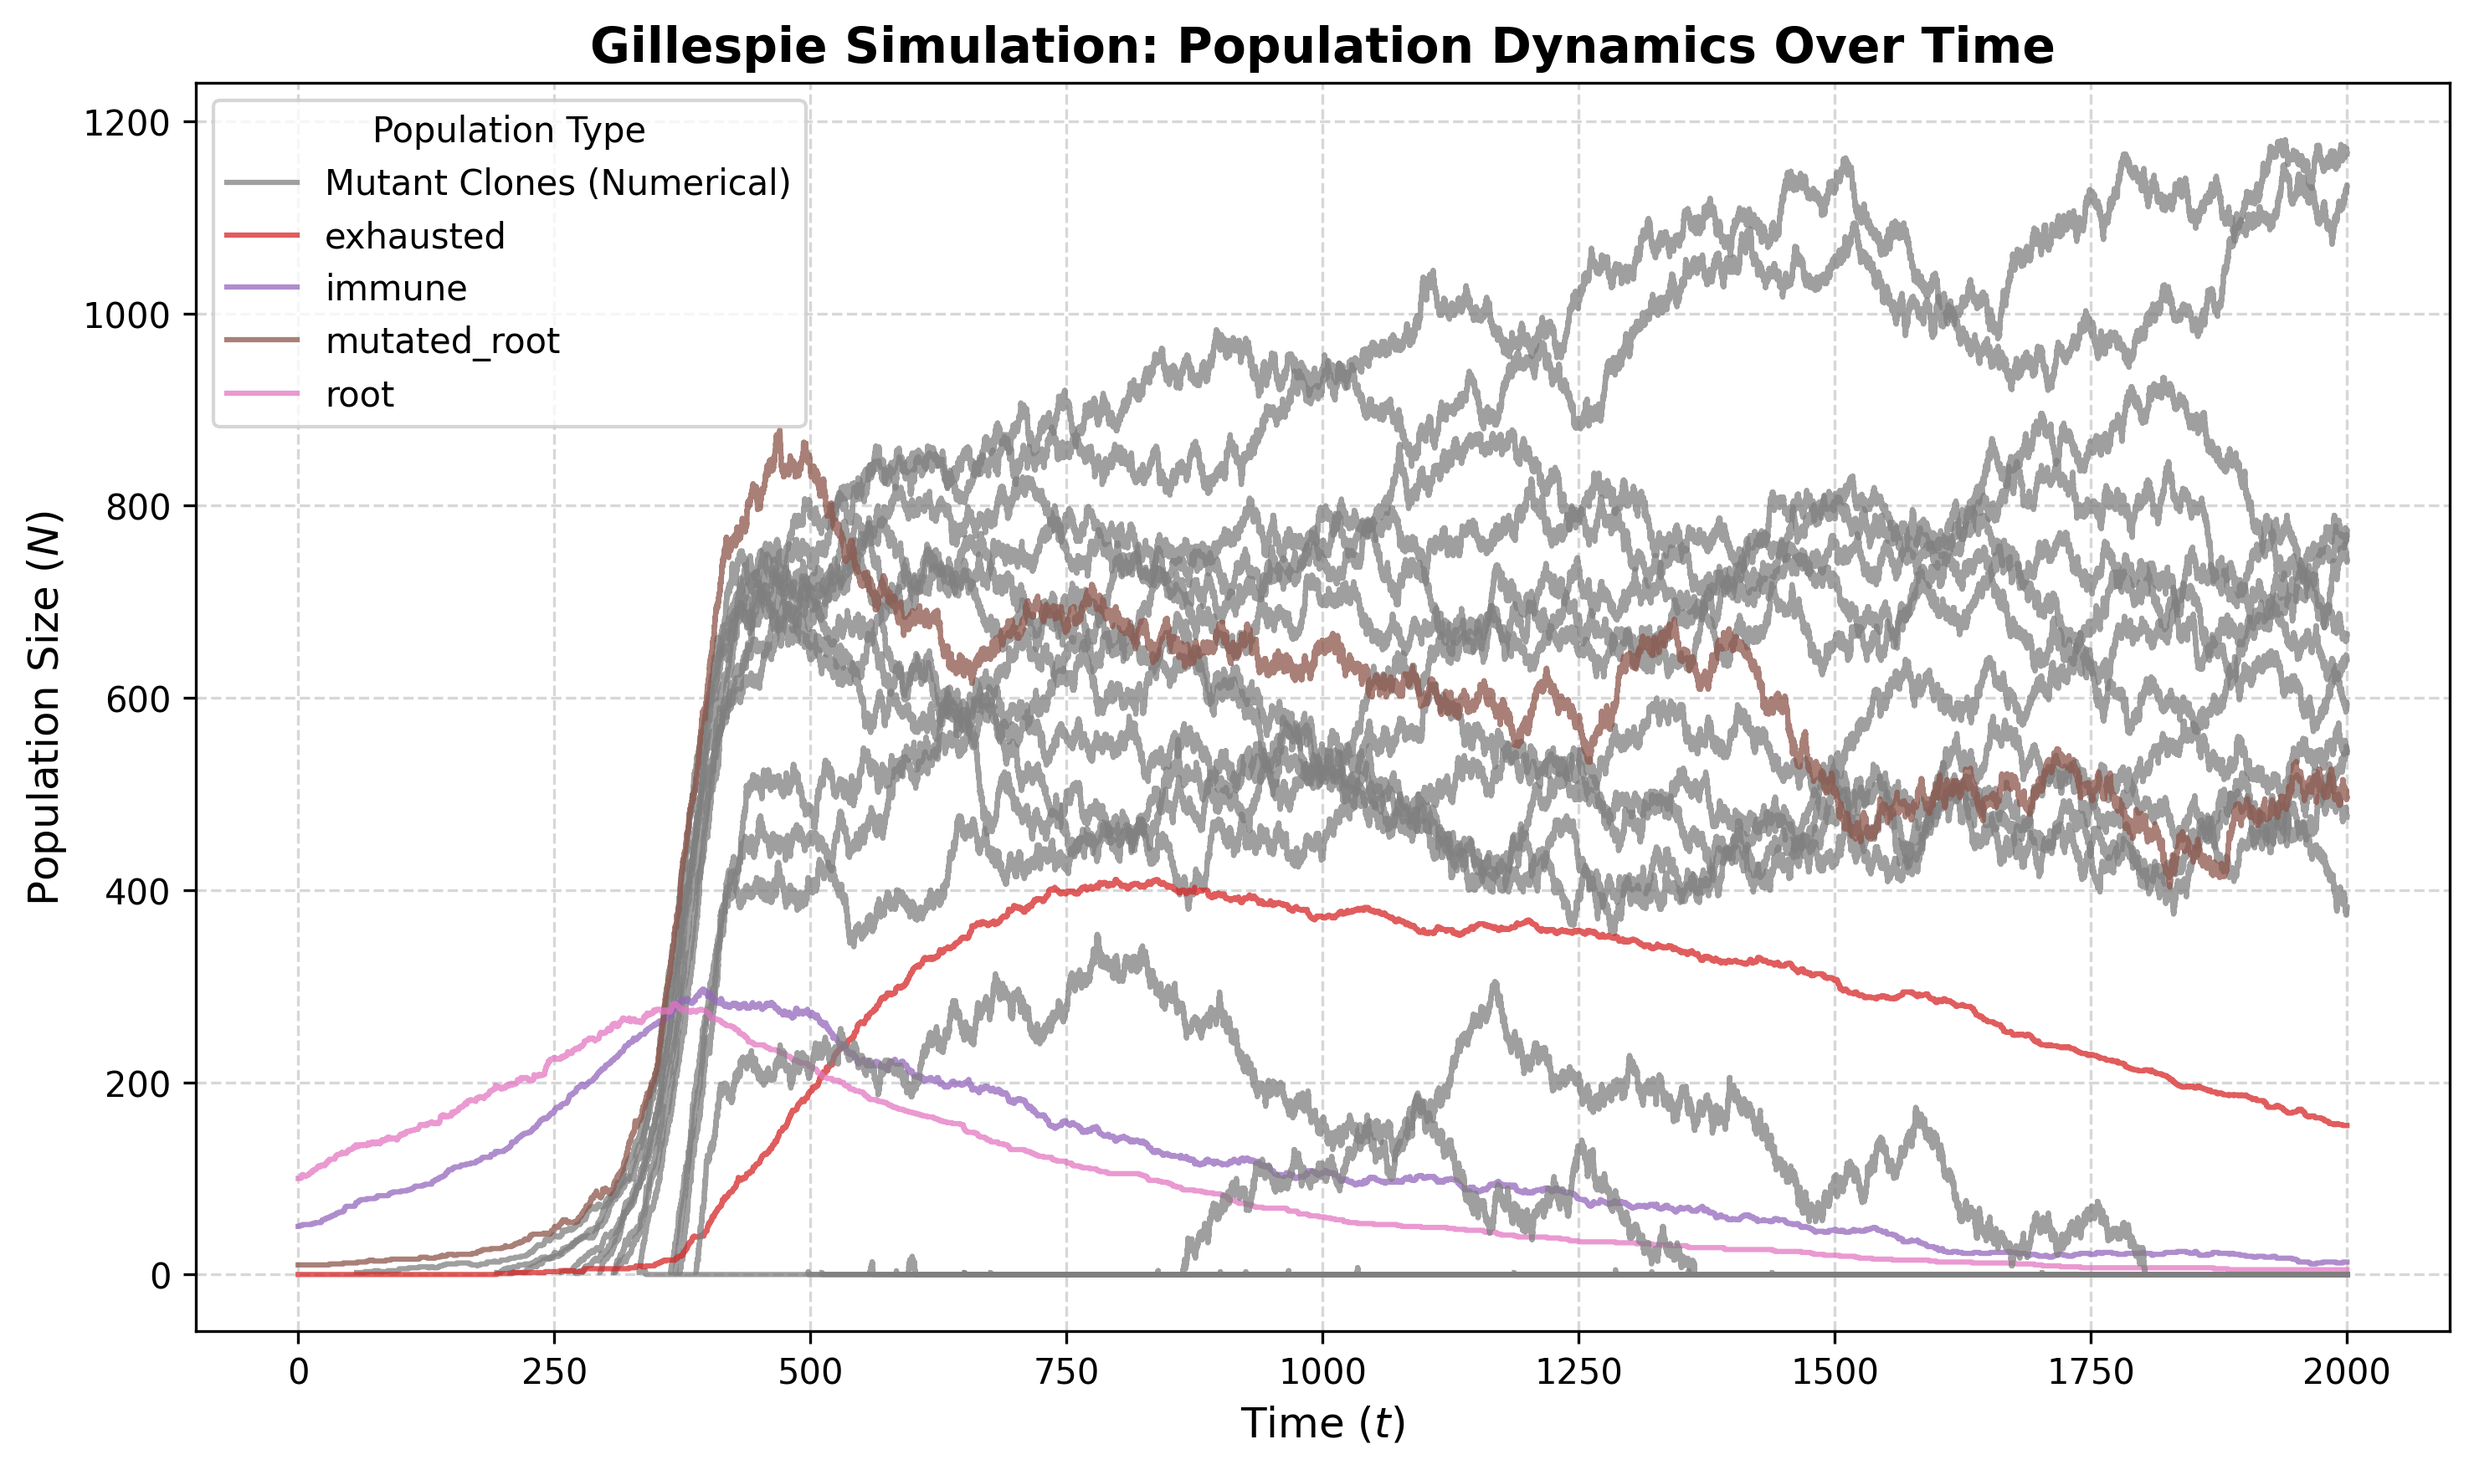
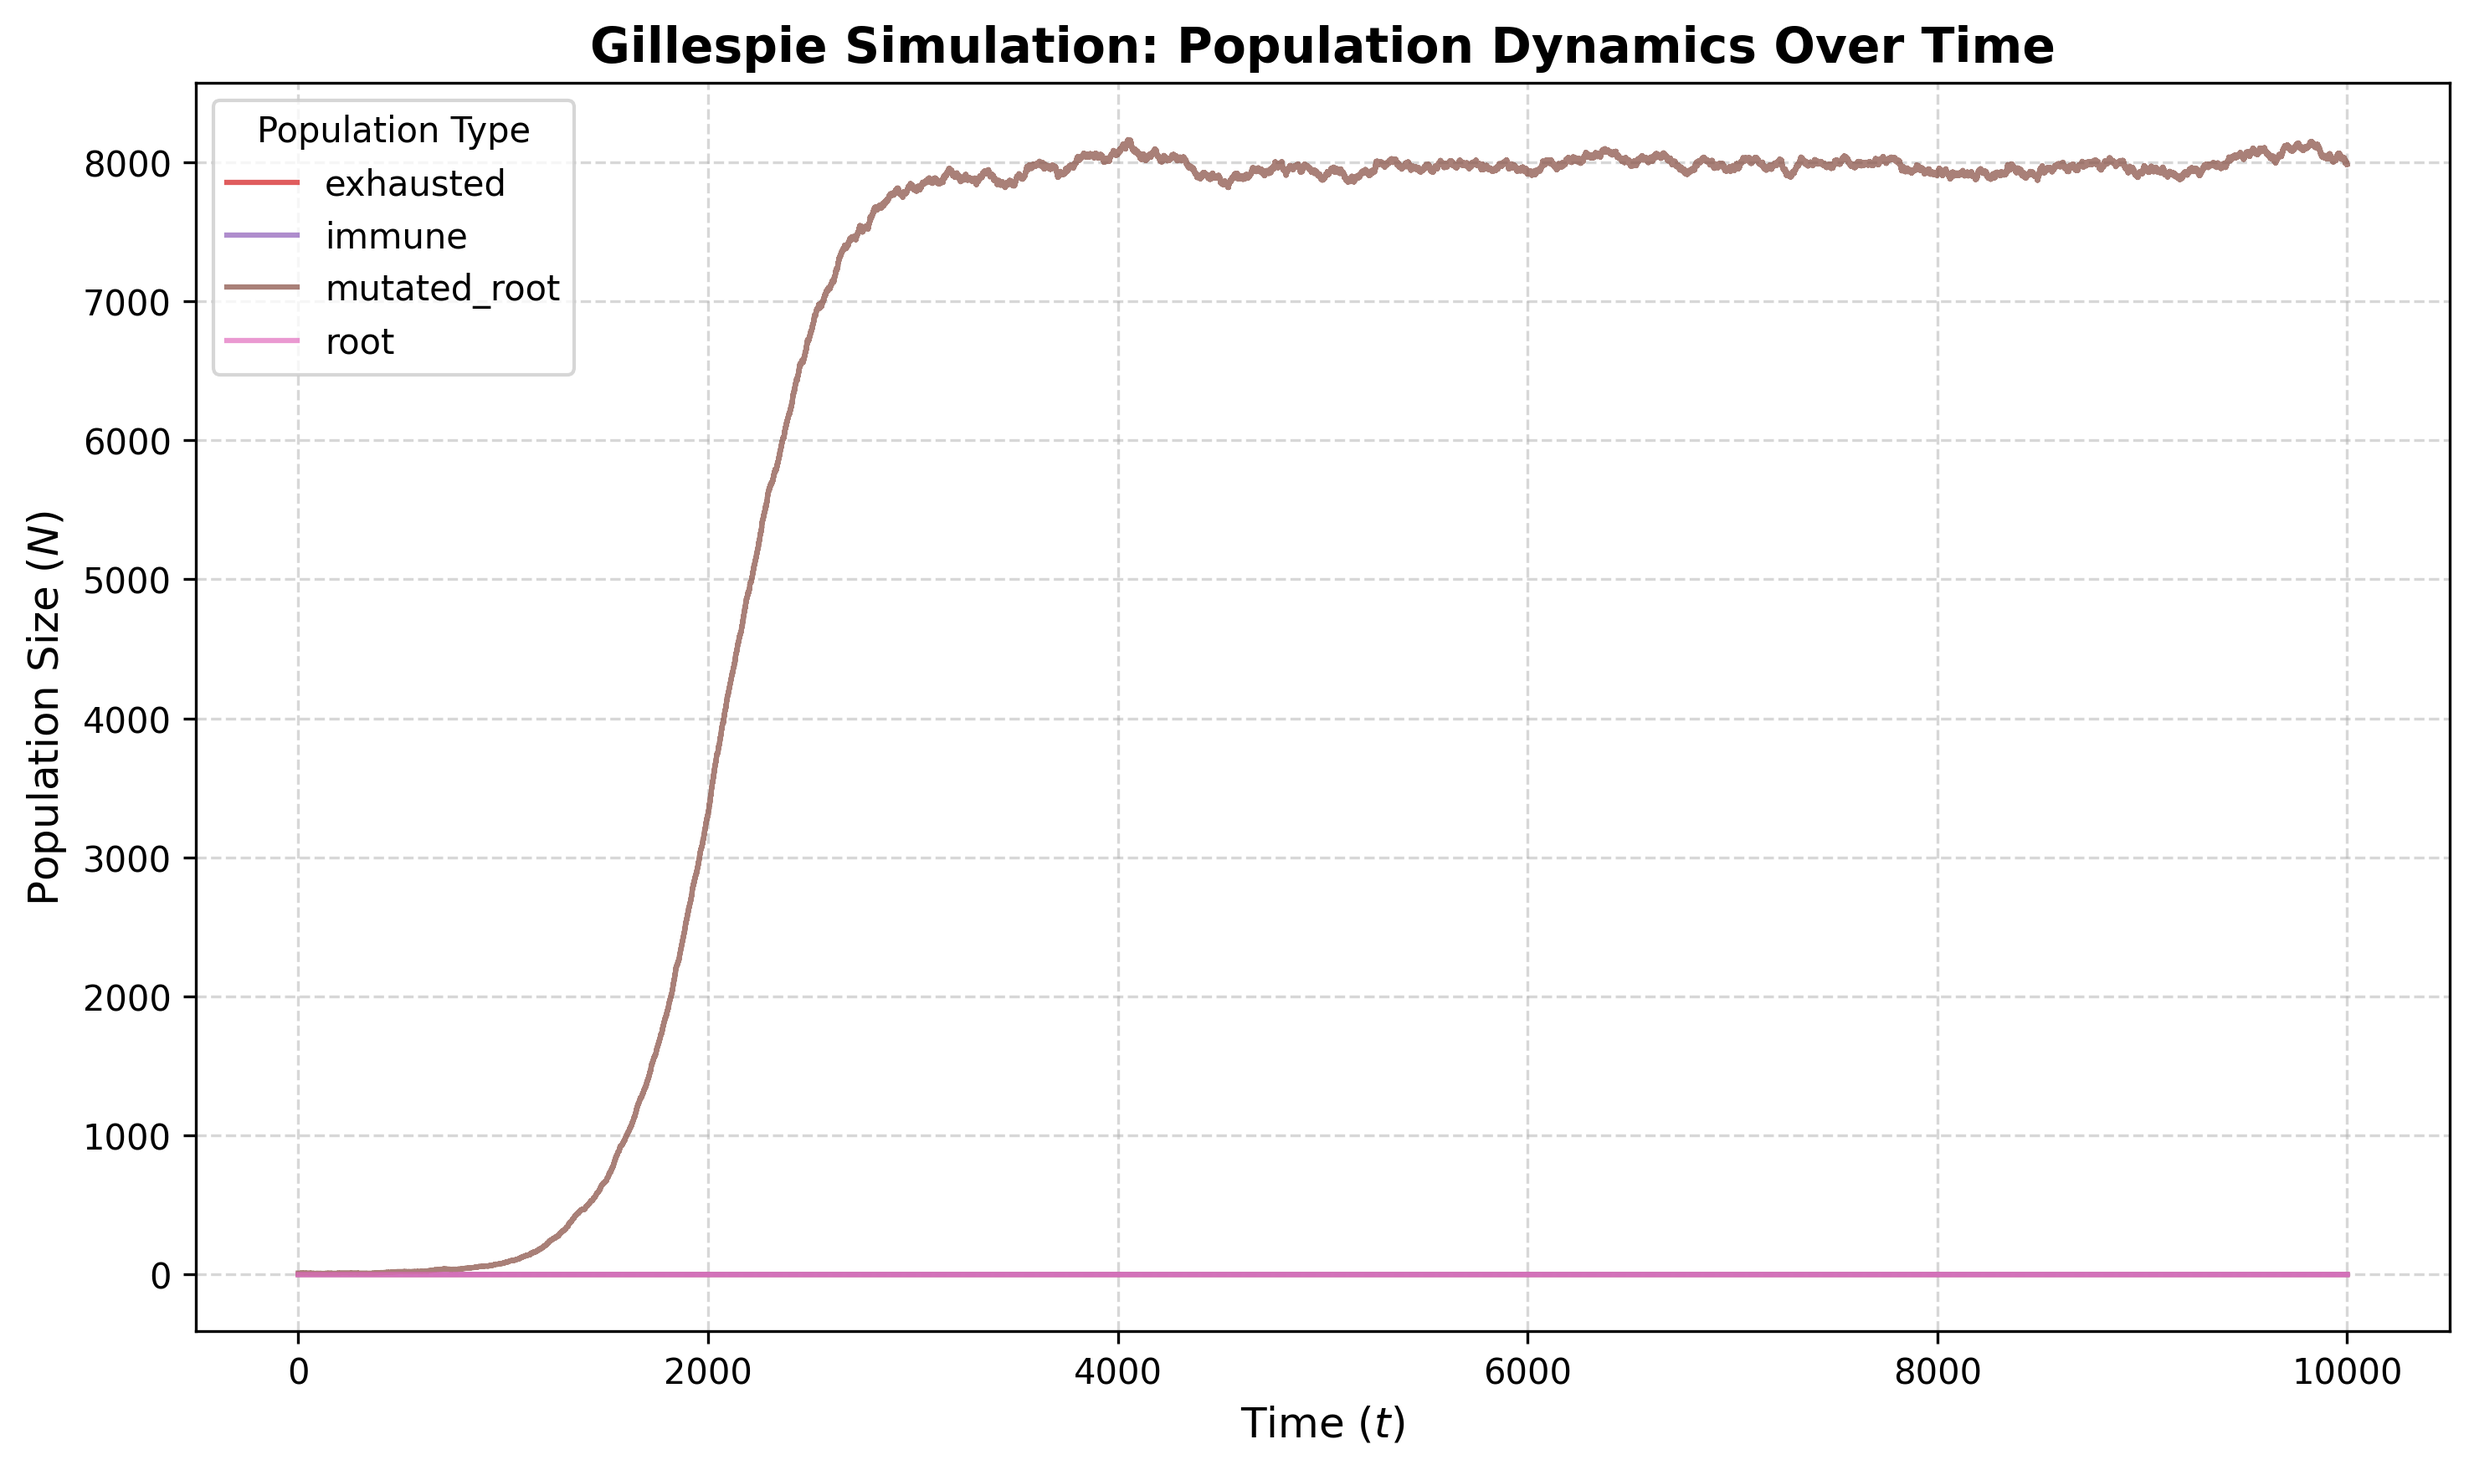
FIX: crowding rescaling now takes fitness gain of mutant cells into account when adjusting for homeostasis

diff --git a/src/gillespie/simulation_config.py b/src/gillespie/simulation_config.py
@@ -14,6 +14,7 @@ class CellTypeConfig:
     mu: float = 0.002
     nu: float = 0.0
     omega_exhaust: float = 0.0
+    fitness_gain: float = 0.0
     next_mutation: str = ""
 
 #TODO: Arreglar este lio. Me gustaria poder meterle los inputs a simulation config de los clones que voy a usar que esten definidos ya fuera y luego al crear las subclases que cada una use el suyo. asi cada subclase tiene sus N,K,birth_rate etc
@@ -21,14 +22,14 @@ class CellTypeConfig:
 _DEFAULT_CELL_PARAMETERS = {
     "base": CellTypeConfig(
         default_id= (),
-        N=100,
+        N=0,
         K=1,
-        nu=0.0002,
+        nu=0.0,
         next_mutation= "mutated"
     ),
     "immune": CellTypeConfig(
         default_id= (-1,),
-        N=50,
+        N=0,
         K=0.5,
         lambda0= 0.005,
         omega_exhaust=0.003,
@@ -36,6 +37,7 @@ _DEFAULT_CELL_PARAMETERS = {
     ),
     "mutated": CellTypeConfig(
         default_id= (-3,),
+        fitness_gain= 0.2, 
         N=10,
         K=2,
     ),
@@ -57,14 +59,14 @@ class SimulationConfig:
    
  
     # simulation control
-    T_max: float = 2000
+    T_max: float = 10000
     seed: Optional[int] = None
 
    
     decline: float = 0.0
     Kmin: float = 1
 
-    fitness_gain: float = 0.2
+    
 
     # interaction parameters
     theta_I: float = 0.0005  # Kill rate: immune cells killing mutated cells (N_mutant * N_immune * theta_I)
@@ -104,6 +106,7 @@ class SimulationConfig:
             new_cell_params = {}
             for cell_type, config in self.cell_parameters.items():
                 if config.K is not None:
+                    lambda0 = config.lambda0 * (1 + config.fitness_gain)
                     scaled_K = int(np.ceil(config.K * self.OMEGA))
                     scaled_omega_eshaust = config.omega_exhaust / self.OMEGA if config.omega_exhaust is not 0.0 else config.omega_exhaust
                     # Crear nuevo CellTypeConfig con K escalado
@@ -111,7 +114,7 @@ class SimulationConfig:
                         default_id= config.default_id,
                         N=config.N,
                         K=scaled_K,
-                        lambda0=config.lambda0,
+                        lambda0=lambda0,
                         mu=config.mu,
                         nu=config.nu,
                         omega_exhaust=scaled_omega_eshaust,

diff --git a/src/gillespie/clone.py b/src/gillespie/clone.py
@@ -102,7 +102,6 @@ class WildTypeClone(Clone, clone_type = "base"):
 class MutatedClone(Clone, clone_type = "mutated"):
     def __init__(self, *args, **kwargs):
         super().__init__(*args, **kwargs)
-        self.birth_rate = self.cell_parameters.lambda0 * (1.0 + self.config.fitness_gain)
 
     def crowding_numerator(self, tissue_state: "TissueState") -> int:
         return tissue_state.pop_map.get("mutated", 0)
